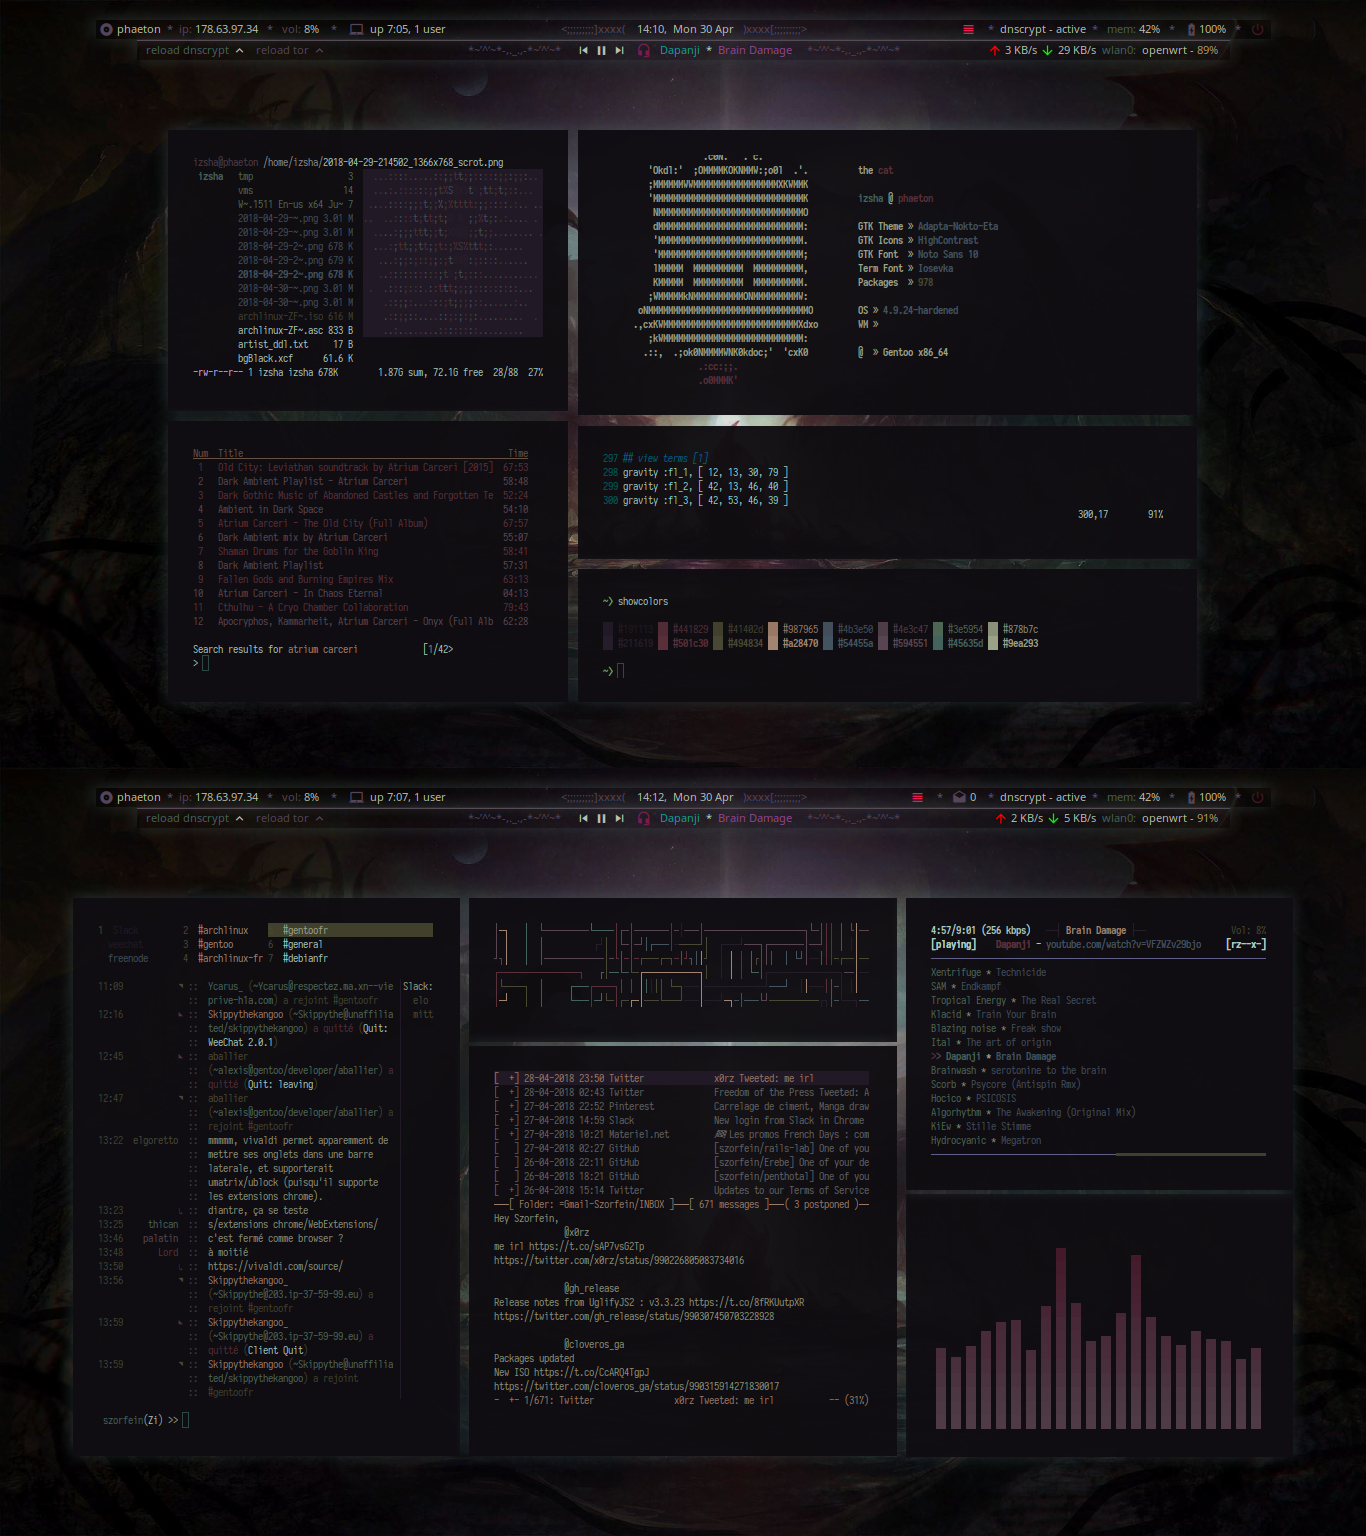
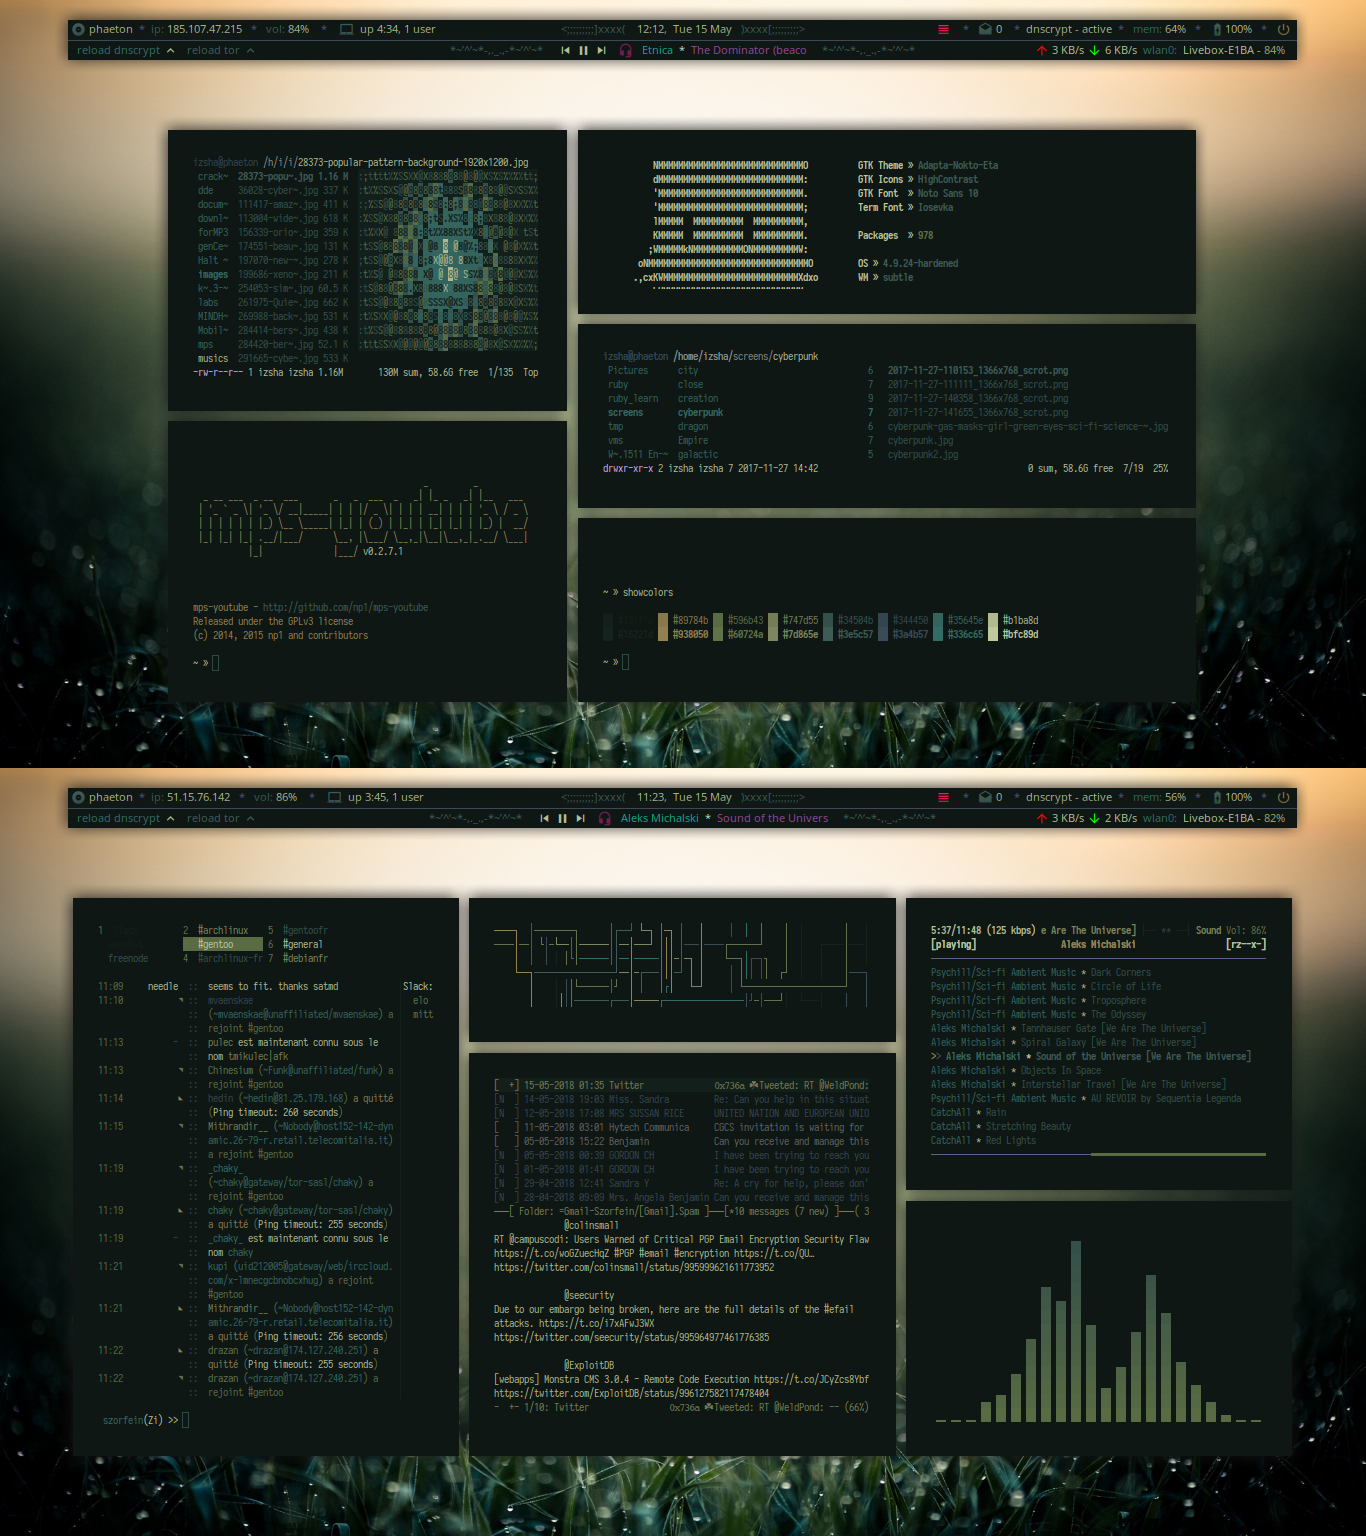
Grass theme

diff --git a/.config/subtle/subtle.rb b/.config/subtle/subtle.rb
@@ -40,15 +40,15 @@ end
 
 style :views do 
     style :focus do
-        foreground "#ffec26"
+        border "#ffec26", 0
     end
 end
 
 style :clients do
-    foreground "#00ff00"
+    border "#00ff00", 0
     padding      0
     margin_left  5
-    margin_right   4
+    margin_right   5
     margin_top   5
     margin_bottom   5
 end
@@ -142,7 +142,7 @@ grab "W-F1", [ :l_side, :r_side ]
 grab "W-F2", [ :ct, :ct66 ]
 grab "W-F3", [ :d1, :d2, :d3 ]
 grab "W-F4", [ :pp, :we, :mu, :ca, :ma ]
-grab "W-F5", [ :fl_1, :fl_2, :fl_3 ]
+grab "W-F5", [ :float_l, :float_r ]
 
 # Exec programs
 grab "W-Return", "termite"
@@ -231,8 +231,8 @@ end
 gravity :pp, [ 34, 13, 32, 21 ]
 gravity :we, [ 5, 13, 29, 77 ]
 gravity :mu, [ 66, 13, 29, 41 ]
-gravity :ca, [ 66, 53, 29, 37 ]
-gravity :ma, [ 34, 33, 32, 57 ]
+gravity :ca, [ 66, 54, 29, 36 ]
+gravity :ma, [ 34, 34, 32, 56 ]
 
 tag "pwd" do
     match "pwd"
@@ -294,10 +294,10 @@ tag "code_6" do
   gravity :d3
 end
 
-## view terms [1]
-gravity :fl_1, [ 12, 13, 30, 79 ]
-gravity :fl_2, [ 42, 13, 46, 40 ]
-gravity :fl_3, [ 42, 53, 46, 39 ]
+## view on default terms [1]
+gravity :float_l, [ 12, 13, 30, 79 ]
+gravity :float_r, [ 42, 13, 46, 79 ]
+#gravity :float_3, [ 42, 52, 46, 39 ]
 
 #
 # View

diff --git a/README.md b/README.md
@@ -8,7 +8,7 @@
 
 ## Advertise
 
-A new theme will erase the previous, only the colors (Xresources) is saved into `~/.colors`. It change about every 15 days. if you like a theme, do a copy locally with:
+A new theme will erase the previous, only the colors (.Xresources) are saved into `~/.colors`. It change about every 15 days. if you like a theme, do a copy locally with:
 
     $ git clone https://github.com/szorfein/dotfiles
 
@@ -24,14 +24,14 @@ A new theme will erase the previous, only the colors (Xresources) is saved into 
 + xdo - small utility to perform elementary actions on windows
 + xhost - dependencies for Xorg
 + firejail - launch app in a secure sandbox
-+ [wallpaper](https://wallpapertag.com/wallpaper/full/6/5/0/798884-kerrigan-wallpaper-1920x1080-photo.jpg)
++ [wallpaper](https://wallpapertag.com/wallpaper/full/9/6/1/374331-grass-wallpaper-2560x1600-for-tablet.jpg)
 
 ## Requirements for lemonbar || polybar
 
 All dependencies for polybar can be remove, change, etc, you just have to edit the config file to your needs.
 
 + material-icons & iosevka term
-+ dig - used for retrieve IP address
++ wget - used for retrieve IP address
 + mpd - music server
 + mpc - music client
 + systemd - used to see state of daemon and reload service.
